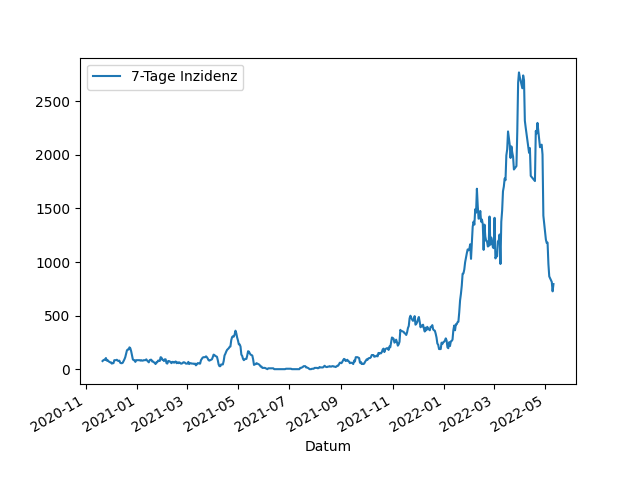
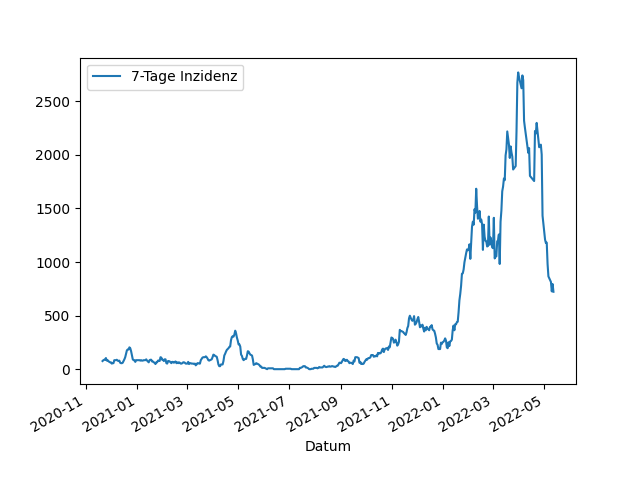
Update images

diff --git a/_includes/aktuelle_inzidenz.md b/_includes/aktuelle_inzidenz.md
@@ -1,1 +1,1 @@
-794,3
+722,5
